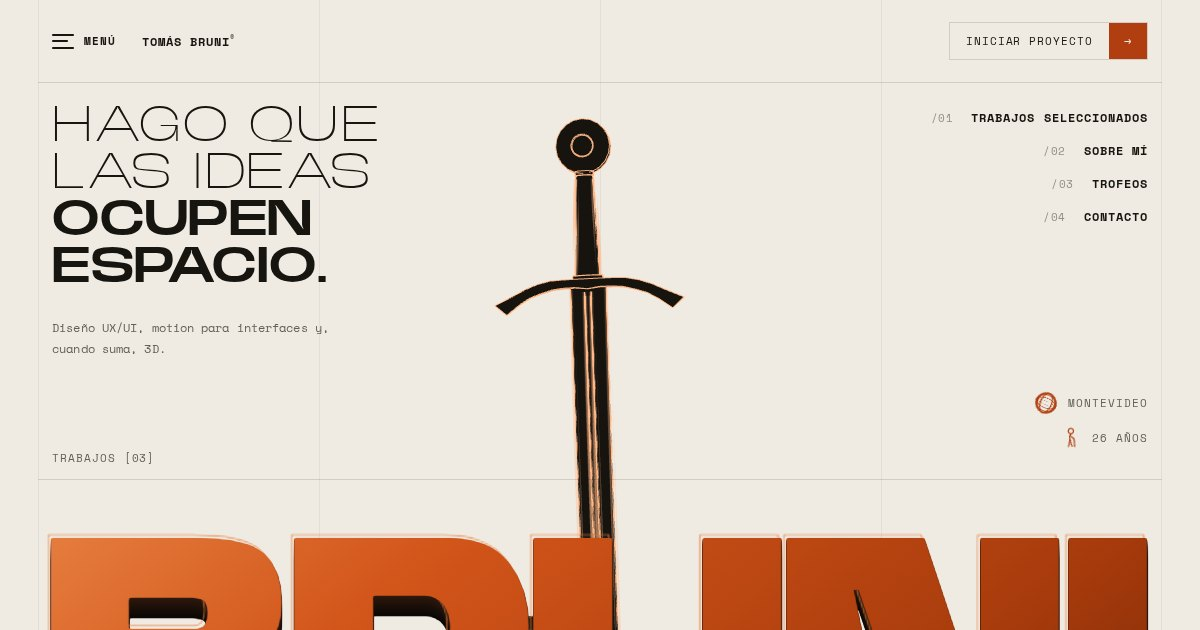
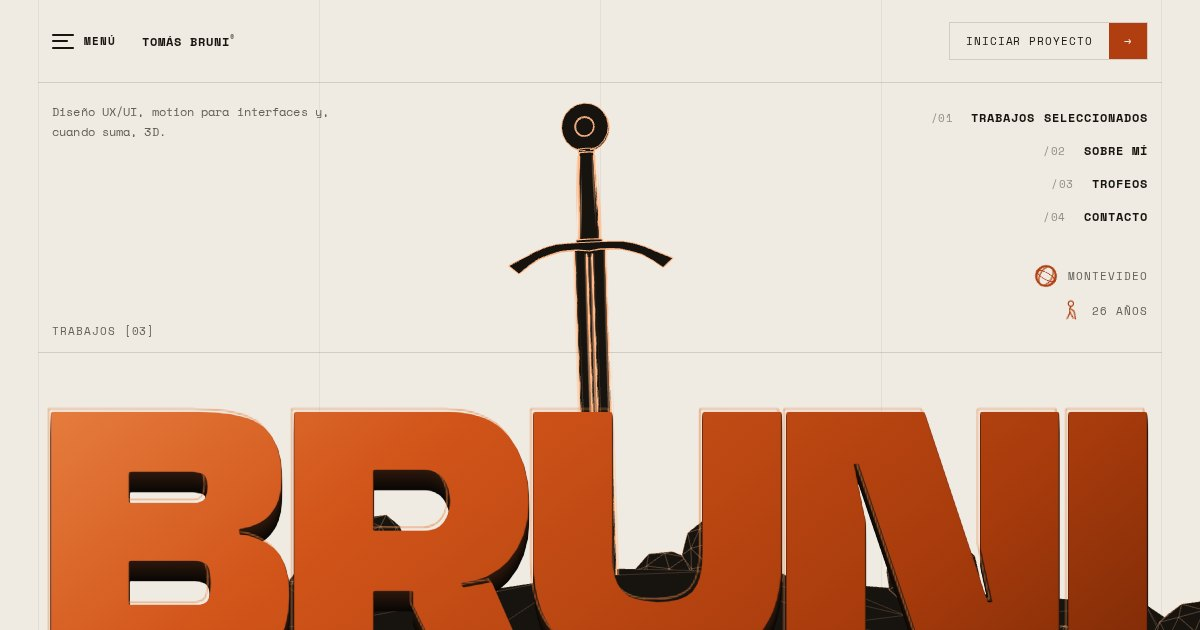
Remove the hero headline, even out contact spacing
- The "Hago que las ideas ocupen espacio." headline is gone from view; a
  visually hidden h1 with name and role stays for search engines and screen
  readers. og.jpg refreshed.
- Home contact: even spacing between title, links, note and button, taller
  link rows.

Claude-Session: https://claude.ai/code/session_01YVD6Q9gRUcxZDvyhKjsZiy

diff --git a/index.html b/index.html
@@ -155,6 +155,7 @@ body.menu-abierto .burger i:nth-child(3){transform:translateY(-6.5px) rotate(-45
 .thesis{display:grid;gap:clamp(26px,4.5vh,42px);max-width:min(40%,600px)}
 h1{font-family:var(--wide);font-weight:200;font-size:clamp(27px,3.7vw,52px);line-height:1.06;letter-spacing:-.015em;text-transform:uppercase;max-width:16.5em}
 h1 u{text-decoration:none;font-weight:600}
+.solo-lector{position:absolute;width:1px;height:1px;margin:-1px;padding:0;overflow:hidden;clip:rect(0 0 0 0);white-space:nowrap;border:0}
 .row{display:flex;flex-wrap:wrap;gap:clamp(24px,6vw,80px);justify-content:space-between;align-items:flex-end}
 .note{font-family:var(--mono);font-size:12px;text-transform:none;letter-spacing:var(--tr-text);line-height:1.68;color:var(--ash);max-width:46ch}
 .disc{cursor:default}
@@ -532,7 +533,7 @@ body.viendo-caso #casos{display:block}
   letter-spacing:-.015em;text-transform:uppercase;margin-bottom:clamp(26px,4.5vh,44px)}
 .ctitulo u{text-decoration:none;font-weight:600}
 .clinks{display:flex;flex-direction:column;gap:2px;margin-bottom:clamp(22px,3.6vh,36px)}
-.clinks a{display:flex;gap:18px;align-items:baseline;padding:9px 0;border-top:1px solid var(--line);
+.clinks a{display:flex;gap:18px;align-items:baseline;padding:14px 0;border-top:1px solid var(--line);
   transition:padding-left .35s cubic-bezier(.2,.8,.2,1)}
 .clinks a:last-child{border-bottom:1px solid var(--line)}
 .clinks a:hover{padding-left:12px}
@@ -542,7 +543,11 @@ body.viendo-caso #casos{display:block}
   padding-left:var(--pad);padding-right:var(--pad);padding-top:14px;border-top:1px solid var(--line)}
 @media(max-width:860px){.cbloque{max-width:none}}
 button.cta{background:none;padding:0;color:var(--bone);cursor:pointer}
-.ccta{align-self:flex-start;margin-bottom:clamp(22px,3.6vh,36px)}
+.ccta{align-self:flex-start;margin:0}
+/* contacto del inicio: aire parejo entre titulo, links, nota y boton */
+.cbloque .ctitulo{margin-bottom:clamp(30px,5vh,52px)}
+.cbloque .clinks{margin-bottom:clamp(26px,4vh,40px)}
+.cbloque .note{margin-bottom:clamp(22px,3.4vh,32px)}
 
 /* --- cierre de las paginas internas: abajo de todo siempre hay un contacto --- */
 #casos>.cierre{display:block}
@@ -860,7 +865,7 @@ html.form-abierto{overflow:hidden}
     <div class="orb" aria-hidden="true"></div>
     <div class="top">
       <div class="thesis">
-        <div class="rise d3"><h1>Hago que las ideas <u>ocupen espacio.</u></h1></div>
+        <h1 class="solo-lector">Tomás Bruni, diseñador UX/UI en Montevideo</h1>
         <p class="note rise d4">Diseño UX/UI, motion para interfaces y, cuando suma, 3D.</p>
       </div>
       <nav class="idx rise d2" aria-label="Secciones">
